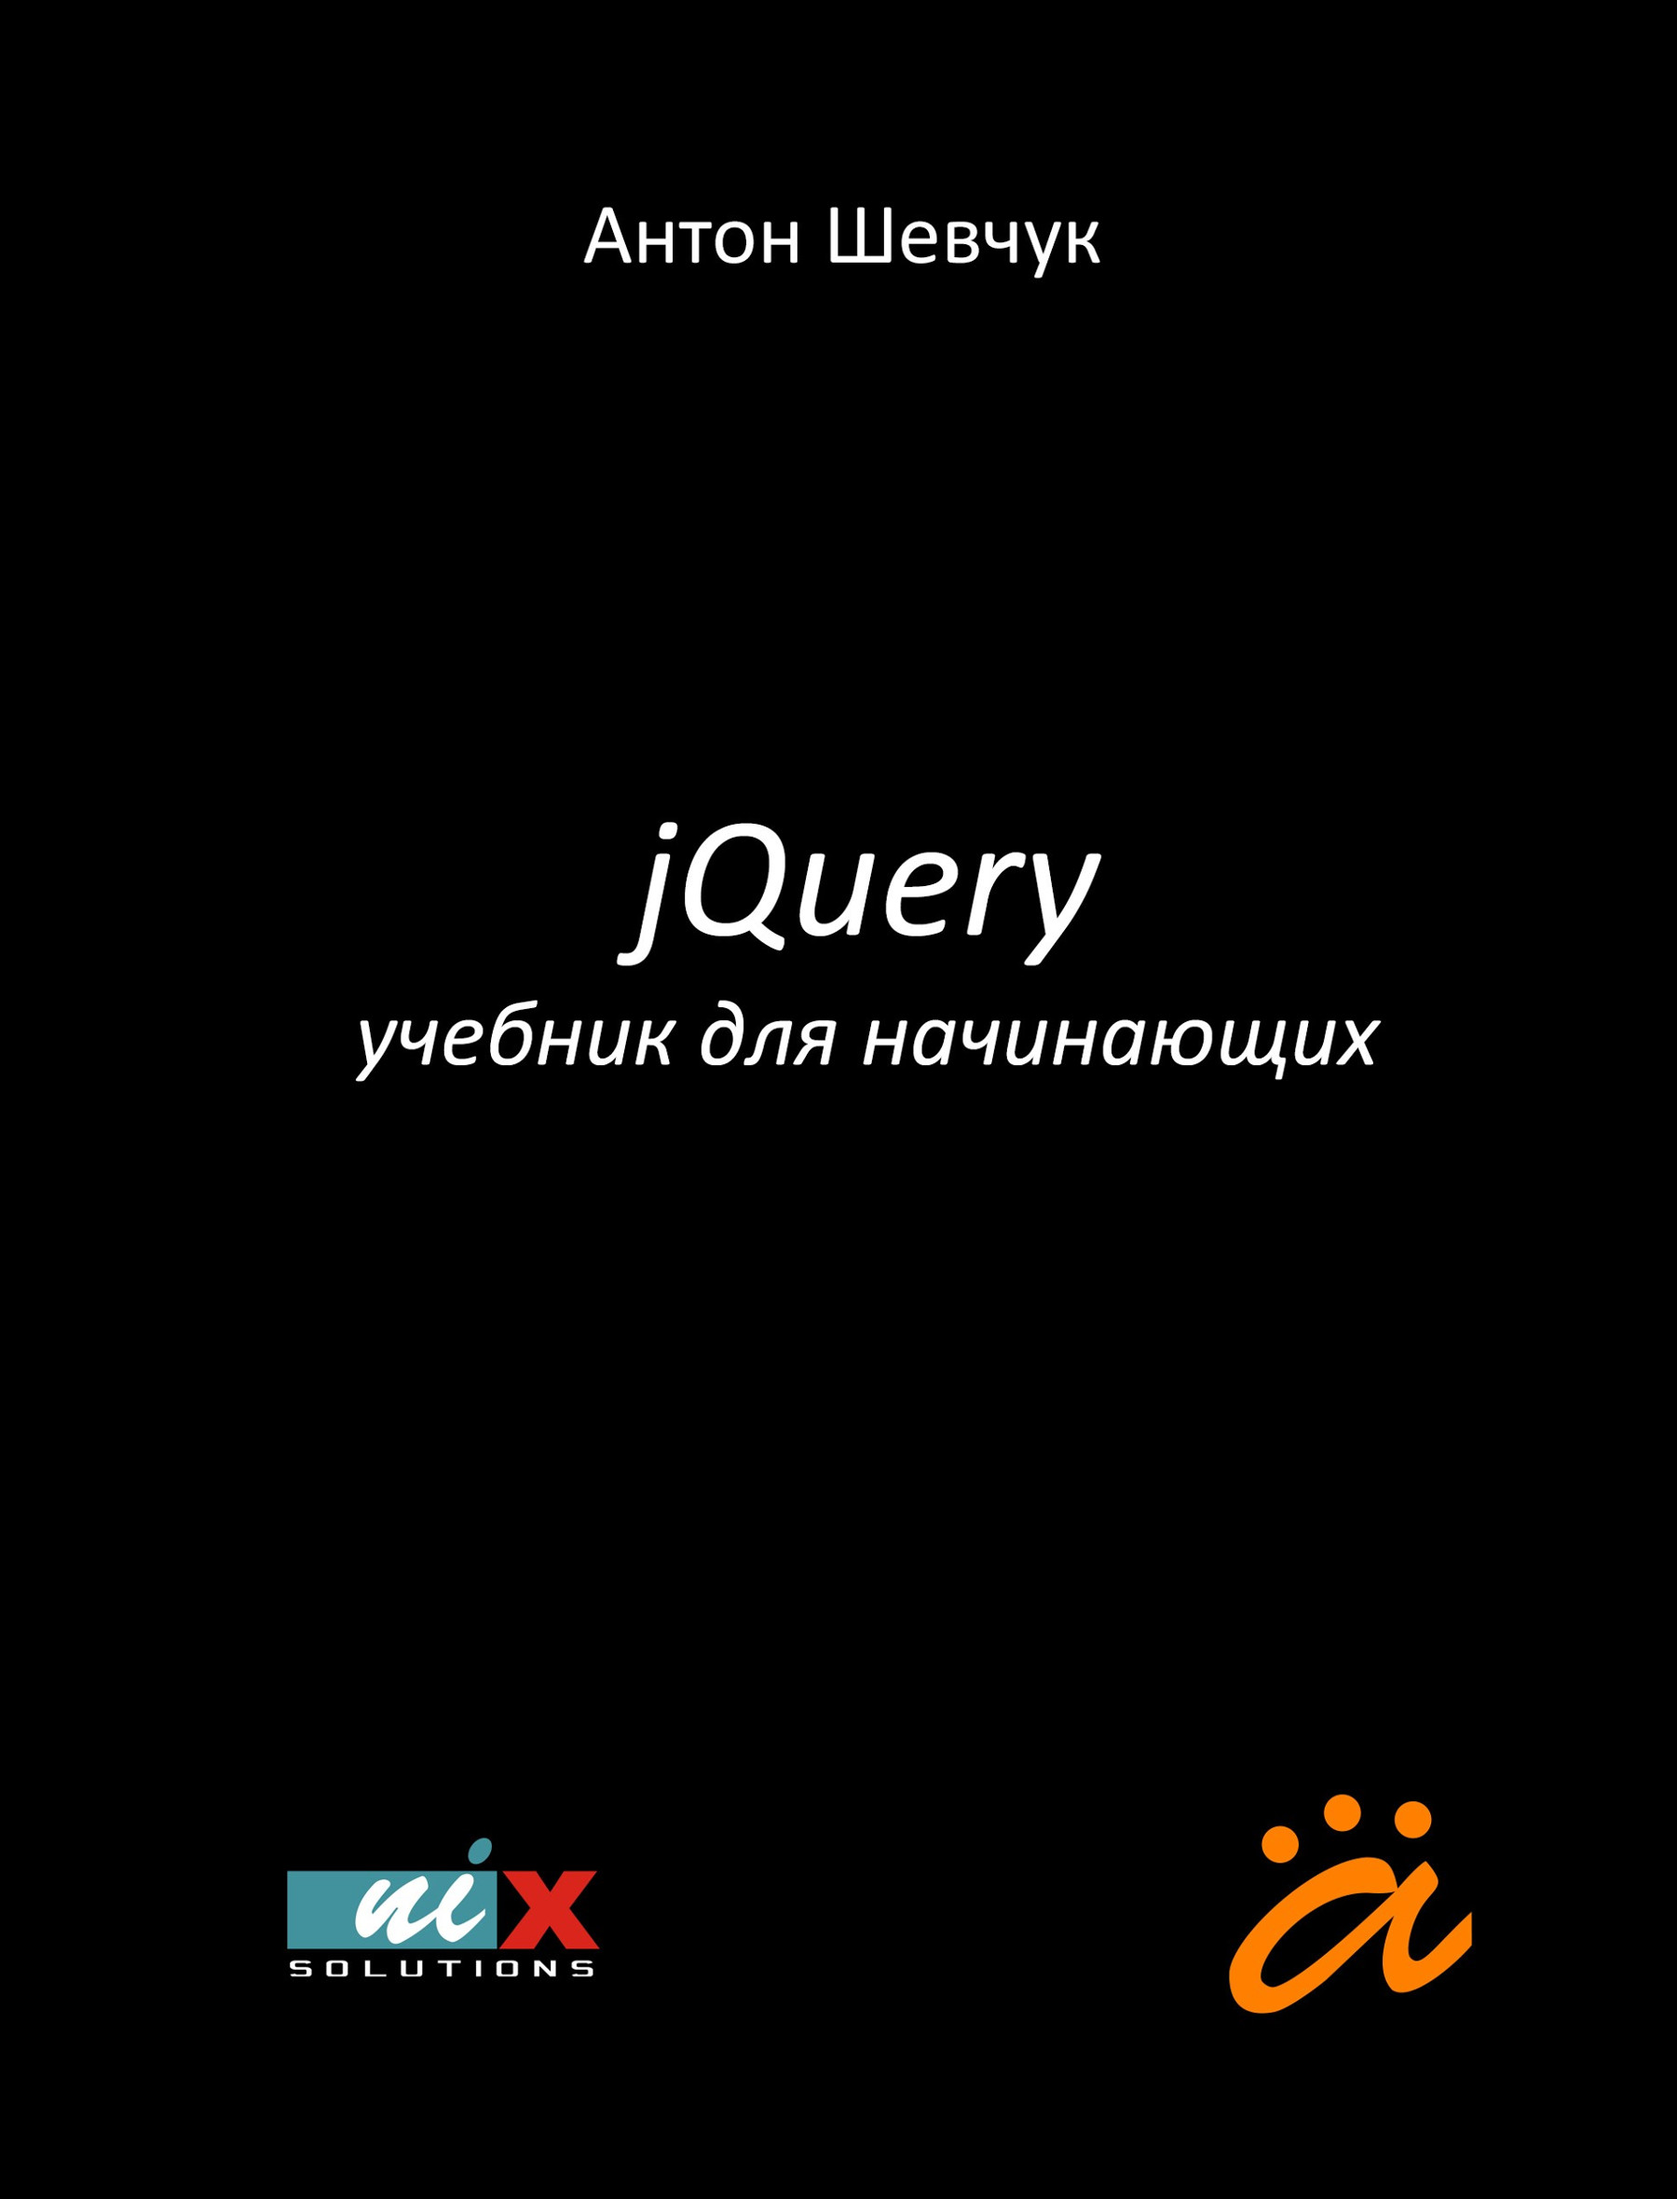
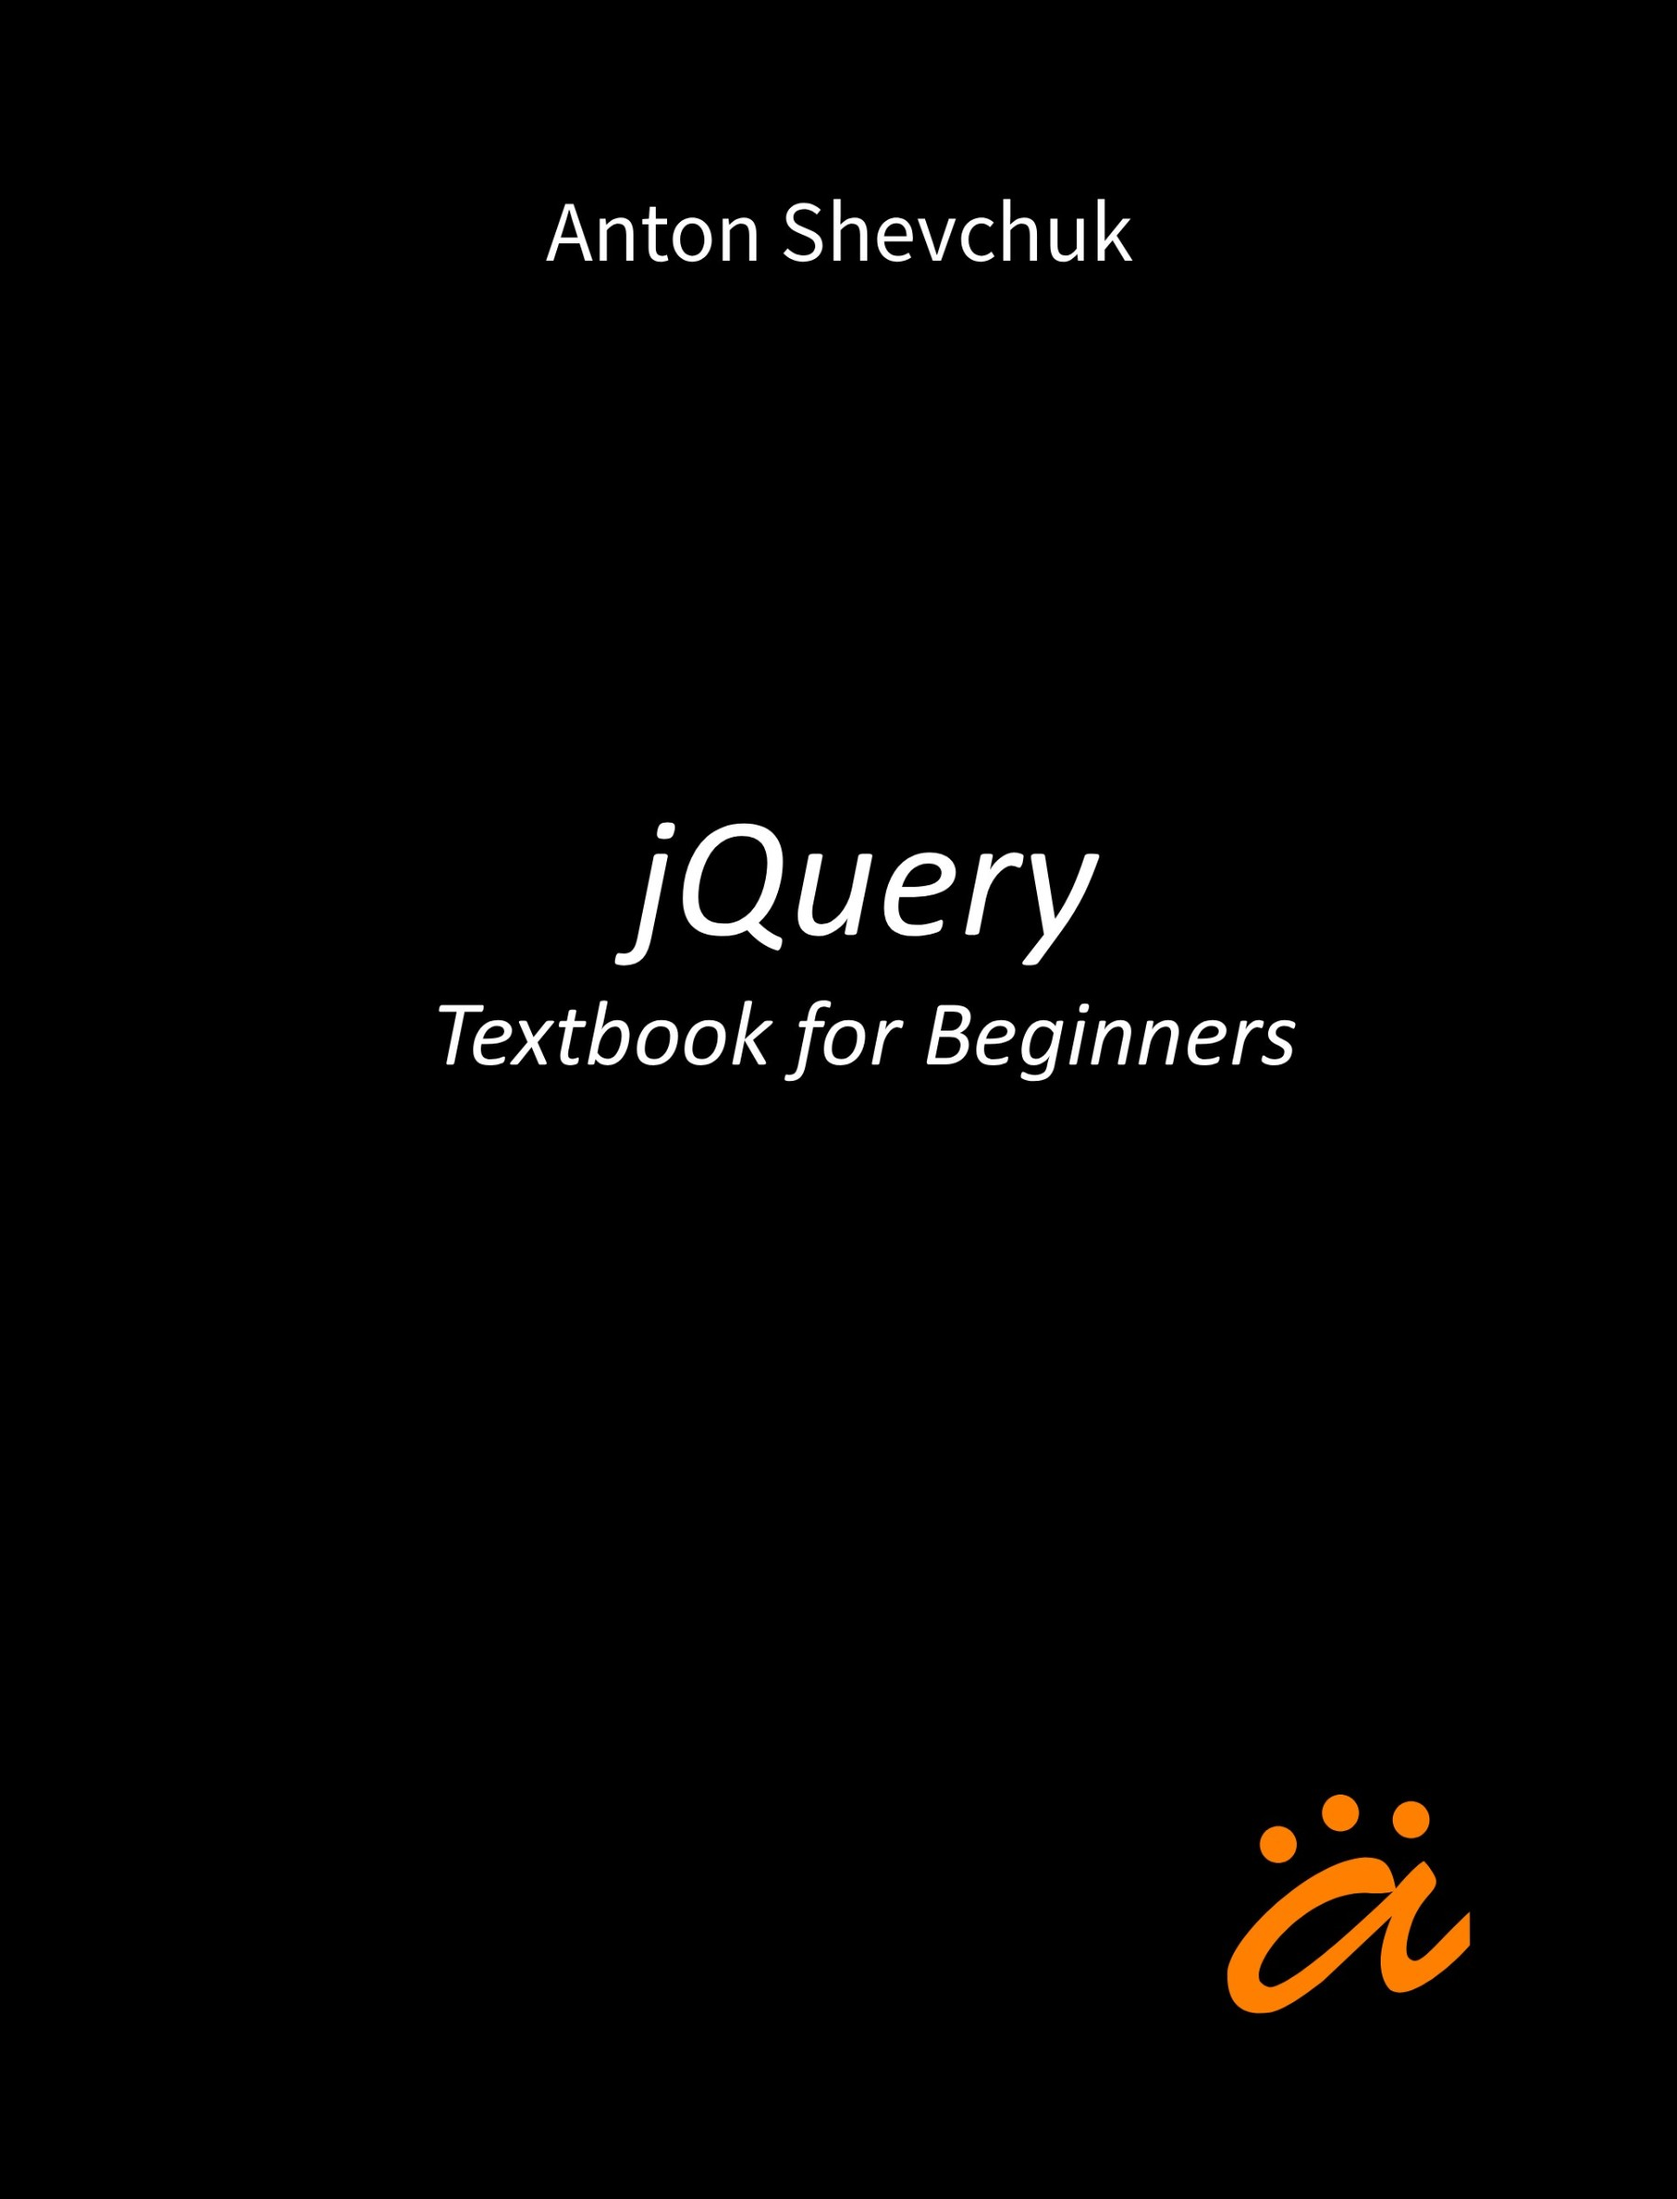
Updated covers for both English and Ukrainian versions

diff --git a/ru/author.md b/ru/author.md
@@ -18,6 +18,6 @@ layout:
 Антон Шевчук родился в 1983 году в небольшом городке Ахтырка в Украине, отец — Юрий Николаевич, инженер-конструктор, мать — Надежда Ивановна, врач-терапевт. В 2000 году Антон закончил общеобразовательную школу №2. В том же году поступил в Харьковский Национальный Университет Радиоэлектроники на факультет КИУ на специальность системное программирование. Во время учёбы проживал в общежитии №8 и был там известен под ником Dark Lord. После получения диплома в 2005-м остался в Харькове и устроился на работу в компанию NIX Solutions Ltd. Начинал с PHP, увлекся JavaScript, разрабатывает и поддерживает [open-source проекты](https://github.com/AntonShevchuk/). Является одним из организаторов конференций [ThinkPHP](https://www.meetup.com/thinkphp/) в Харькове.
 
 Ведёт блог своего имени [https://anton.shevchuk.name](https://anton.shevchuk.name). \
-На данный момент продолжает работать в компании [NIX](https://nixsolutions.com) в должности Solutions Architect.&#x20;
+На данный момент продолжает работать в компании [NIX](https://nixsolutions.com) в должности Solution Architect.
 
 В марте 2022-го года уехал из Харькова спасая семью от российских бомб и ракет.

diff --git a/uk/author.md b/uk/author.md
@@ -18,6 +18,6 @@ layout:
 Антон Шевчук народився у 1983 році в невеличкому місті Охтирка в Україні, батько — Юрій Миколайович, інженер-конструктор, мати — Надія Іванівна, лікар-терапевт. У 2000 році Антон закінчив загальноосвітню школу №2. Того ж року вступив до Харківського Національного Університету Радіоелектроніки на факультет КІУ на спеціальність системне програмування. Під час навчання проживав у гуртожитку №8 і був там відомий під ніком Dark Lord. Після отримання диплома у 2005-му залишився в Харкові та влаштувався на роботу в компанію NIX Solutions Ltd. Починав з PHP, захопився JavaScript, розробляє та підтримує [open-source проєкти](https://github.com/AntonShevchuk/). Є одним з організаторів конференцій [ThinkPHP](https://www.meetup.com/thinkphp/) у Харкові.
 
 Веде блог свого імені [https://anton.shevchuk.name](https://anton.shevchuk.name). \
-На цей момент продовжує працювати в компанії [NIX](https://nixsolutions.com) на посаді Solutions Architect.&#x20;
+На цей момент продовжує працювати в компанії [NIX](https://nixsolutions.com) на посаді Solution Architect.
 
 У березні 2022-го року виїхав з Харкова рятуючи сім'ю від російських бомб та ракет.
